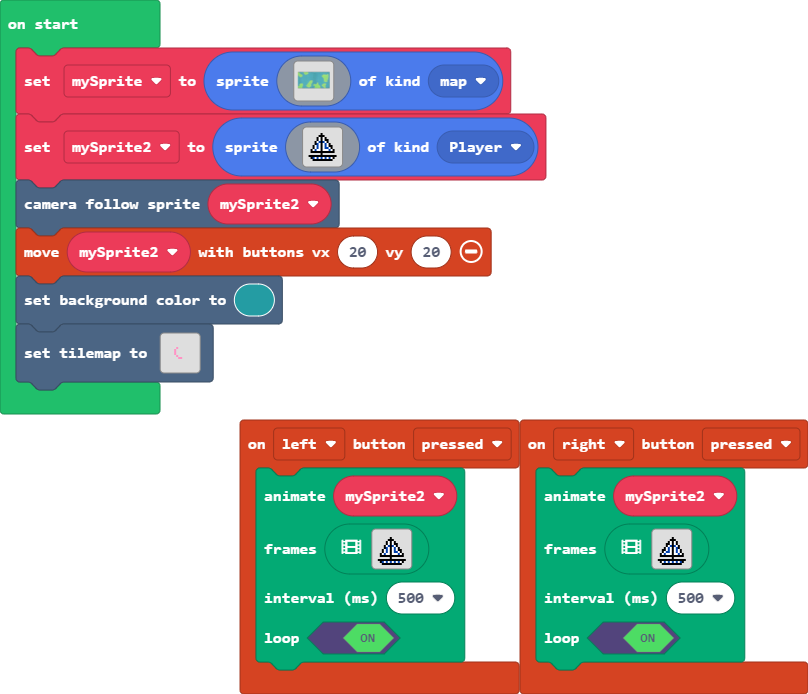
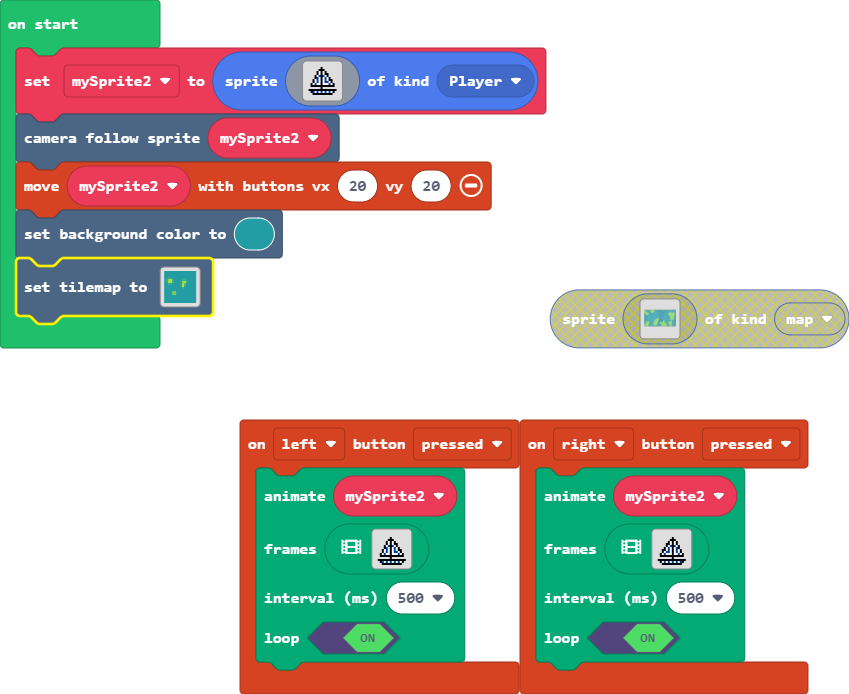
making new islands

diff --git a/tilemap.g.ts b/tilemap.g.ts
@@ -32,6 +32,38 @@ namespace myTiles {
     export const tile7 = image.ofBuffer(hex``);
     //% fixedInstance jres blockIdentity=images._tile
     export const tile15 = image.ofBuffer(hex``);
+    //% fixedInstance jres blockIdentity=images._tile
+    export const tile16 = image.ofBuffer(hex``);
+    //% fixedInstance jres blockIdentity=images._tile
+    export const tile19 = image.ofBuffer(hex``);
+    //% fixedInstance jres blockIdentity=images._tile
+    export const tile28 = image.ofBuffer(hex``);
+    //% fixedInstance jres blockIdentity=images._tile
+    export const tile17 = image.ofBuffer(hex``);
+    //% fixedInstance jres blockIdentity=images._tile
+    export const tile20 = image.ofBuffer(hex``);
+    //% fixedInstance jres blockIdentity=images._tile
+    export const tile21 = image.ofBuffer(hex``);
+    //% fixedInstance jres blockIdentity=images._tile
+    export const tile22 = image.ofBuffer(hex``);
+    //% fixedInstance jres blockIdentity=images._tile
+    export const tile23 = image.ofBuffer(hex``);
+    //% fixedInstance jres blockIdentity=images._tile
+    export const tile24 = image.ofBuffer(hex``);
+    //% fixedInstance jres blockIdentity=images._tile
+    export const tile25 = image.ofBuffer(hex``);
+    //% fixedInstance jres blockIdentity=images._tile
+    export const tile26 = image.ofBuffer(hex``);
+    //% fixedInstance jres blockIdentity=images._tile
+    export const tile27 = image.ofBuffer(hex``);
+    //% fixedInstance jres blockIdentity=images._tile
+    export const tile30 = image.ofBuffer(hex``);
+    //% fixedInstance jres blockIdentity=images._tile
+    export const tile18 = image.ofBuffer(hex``);
+    //% fixedInstance jres blockIdentity=images._tile
+    export const tile31 = image.ofBuffer(hex``);
+    //% fixedInstance jres blockIdentity=images._tile
+    export const tile29 = image.ofBuffer(hex``);
 
     helpers._registerFactory("tilemap", function(name: string) {
         switch(helpers.stringTrim(name)) {
@@ -55,20 +87,24 @@ namespace myTiles {
 . . . . . . . . . . . . . . . . 
 `, [myTiles.transparency16,myTiles.tile1,myTiles.tile2], TileScale.Sixteen);
             case "level3":
[1 lines of base64/hex data omitted]
-. . . . . . . . . . 
-. . . . . . . . . . 
-. . . . . . . . . . 
-. . . . . . . . . . 
-. . . . . . . . . . 
-. . . . . . . . . . 
-. . . . . . . . . . 
-. . . . . . . . . . 
-. . . . . . . . . . 
-. . . . . . . . . . 
-. . . . . . . . . . 
-. . . . . . . . . . 
-`, [myTiles.transparency16,myTiles.tile5,myTiles.tile6,myTiles.tile7,myTiles.tile8,myTiles.tile13,myTiles.tile14,myTiles.tile15], TileScale.Sixteen);
[1 lines of base64/hex data omitted]
+. . . . . . . . . . . . . . . . 
+. . . . . . . . . . . . . . . . 
+. . . . . . . . . . . . . . . . 
+. . . . . . . . . . . . . . . . 
+. . . . . . . . . . . . . . . . 
+. . . . . . . . . . . . . . . . 
+. . . . . . . . . . . . . . . . 
+. . . . . . . . . . . . . . . . 
+. . . . . . . . . . . . . . . . 
+. . . . . . . . . . . . . . . . 
+. . . . . . . . . . . . . . . . 
+. . . . . . . . . . . . . . . . 
+. . . . . . . . . . . . . . . . 
+. . . . . . . . . . . . . . . . 
+. . . . . . . . . . . . . . . . 
+. . . . . . . . . . . . . . . . 
+`, [myTiles.transparency16,myTiles.tile15,myTiles.tile5,myTiles.tile17,myTiles.tile20,myTiles.tile21,myTiles.tile22,myTiles.tile23,myTiles.tile24,myTiles.tile25,myTiles.tile26,myTiles.tile27,myTiles.tile30,myTiles.tile31,myTiles.tile29], TileScale.Sixteen);
         }
         return null;
     })
@@ -106,6 +142,38 @@ namespace myTiles {
             case "tile7":return tile7;
             case "myTile12":
             case "tile15":return tile15;
+            case "myTile13":
+            case "tile16":return tile16;
+            case "myTile16":
+            case "tile19":return tile19;
+            case "myTile25":
+            case "tile28":return tile28;
+            case "myTile14":
+            case "tile17":return tile17;
+            case "myTile17":
+            case "tile20":return tile20;
+            case "myTile18":
+            case "tile21":return tile21;
+            case "myTile19":
+            case "tile22":return tile22;
+            case "myTile20":
+            case "tile23":return tile23;
+            case "myTile21":
+            case "tile24":return tile24;
+            case "myTile22":
+            case "tile25":return tile25;
+            case "myTile23":
+            case "tile26":return tile26;
+            case "myTile24":
+            case "tile27":return tile27;
+            case "myTile27":
+            case "tile30":return tile30;
+            case "myTile15":
+            case "tile18":return tile18;
+            case "myTile28":
+            case "tile31":return tile31;
+            case "myTile26":
+            case "tile29":return tile29;
         }
         return null;
     })

diff --git a/main.ts b/main.ts
@@ -18,7 +18,6 @@ controller.right.onEvent(ControllerButtonEvent.Pressed, function () {
     )
 })
 let mySprite2: Sprite = null
-let mySprite = sprites.create(assets.image`myImage`, SpriteKind.map)
 mySprite2 = sprites.create(img`
     . . . . . . . . . . . . . . . . 
     . . . . . . . f . . . . . . . . 
@@ -40,4 +39,4 @@ mySprite2 = sprites.create(img`
 scene.cameraFollowSprite(mySprite2)
 controller.moveSprite(mySprite2, 20, 20)
 scene.setBackgroundColor(6)
-tiles.setTilemap(tilemap`level1`)
+tiles.setTilemap(tilemap`level3`)
